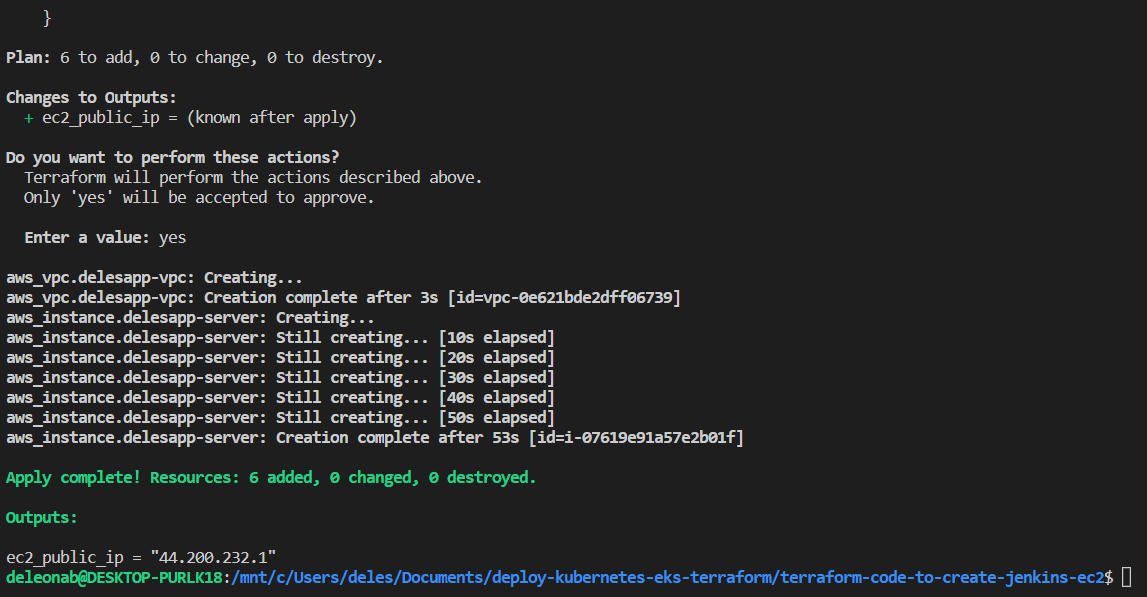
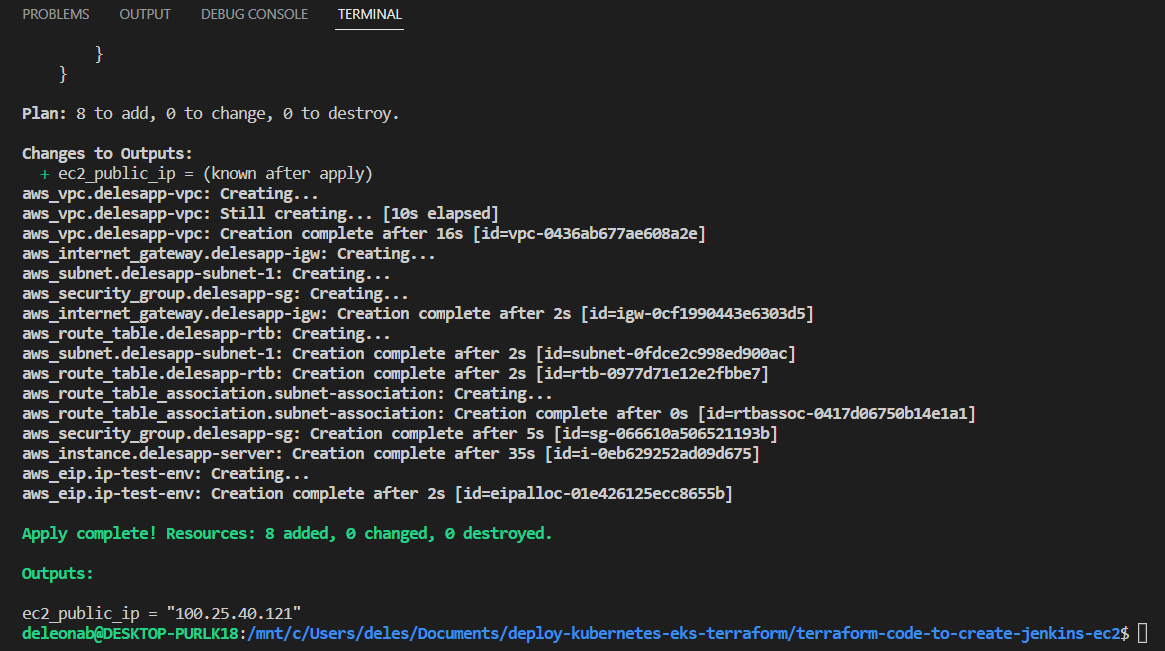
updated code to add elastic IP to instance

Changed region(s): [[0.0, 0.1508, 1.0, 0.995], [0.0, 0.0, 0.3662, 0.0603], [0.0, 0.0905, 0.3357, 0.1206]]

diff --git a/README.md b/README.md
@@ -70,85 +70,6 @@ override.tf.json
 terraform.rc
 ```
 
-## 2.  Prepare the Jenkins Server using terraform and a userdata script(EC2)
-```
-touch jenkins-server.tf
-```
-## 
-```
-
-data "aws_ami" "latest-amazon-linux-image" {
-  most_recent = true
-  owners      = ["amazon"]
-  filter {
-    name   = "name"
-    values = ["amzn2-ami-hvm-*-x86_64-gp2"]
-  }
-  filter {
-    name   = "virtualization-type"
-    values = ["hvm"]
-  }
-}
-```
-### provision ec2 with latest amzn2-ami-hvm-*-x86_64-gp2 image
-```
-resource "aws_instance" "myapp-server" {
-  ami                         = data.aws_ami.latest-amazon-linux-image.id
-  instance_type               = var.instance_type
-  key_name                    = "jenkins-server"
-  subnet_id                   = aws_subnet.myapp-subnet-1.id
-  vpc_security_group_ids      = [aws_default_security_group.default-sg.id]
-  availability_zone           = var.avail_zone
-  associate_public_ip_address = true
-  user_data                   = file("jenkins-userdata.sh")
-  tags = {
-    Name = "${var.env_prefix}-server"
-  }
-}
-
-```
-### Create userdata script for jenkins instance
-### This will install jenkins, git, java, terraform, and kubectl
-
-```
-#!/bin/bash
-
-# install jenkins 
-
-sudo yum update
-sudo wget -O /etc/yum.repos.d/jenkins.repo \
-    https://pkg.jenkins.io/redhat-stable/jenkins.repo
-sudo rpm --import https://pkg.jenkins.io/redhat-stable/jenkins.io.key
-sudo yum upgrade -y
-sudo amazon-linux-extras install java-openjdk11 -y
-sudo yum install jenkins -y
-sudo systemctl enable jenkins
-sudo systemctl start jenkins
-
-# install git
-sudo yum install git -y
-
-# install terraform
-
-sudo yum install -y yum-utils
-sudo yum-config-manager --add-repo https://rpm.releases.hashicorp.com/AmazonLinux/hashicorp.repo
-sudo yum -y install terraform
-
-# install kubectl
-
-sudo curl -LO https://storage.googleapis.com/kubernetes-release/release/v1.23.6/bin/linux/amd64/kubectl
-sudo chmod +x ./kubectl
-sudo mkdir -p $HOME/bin && sudo cp ./kubectl $HOME/bin/kubectl && export PATH=$PATH:$HOME/bin
-
-```
-
-### We will create outputs.tf to output the public ip address of our jenkins server
-
-```
-output "ec2_public_ip" {
-  value = aws_instance.myapp-server.public_ip
-}
-```
 
 ### Our providers will be in provider.tf
 ### This will be aws in this case
@@ -231,6 +152,100 @@ resource "aws_default_security_group" "default-sg" {
 }
 ```
 
+
+## 2.  Prepare the Jenkins Server using terraform and a userdata script(EC2)
+```
+touch jenkins-server.tf
+```
+## 
+```
+
+data "aws_ami" "latest-amazon-linux-image" {
+  most_recent = true
+  owners      = ["amazon"]
+  filter {
+    name   = "name"
+    values = ["amzn2-ami-hvm-*-x86_64-gp2"]
+  }
+  filter {
+    name   = "virtualization-type"
+    values = ["hvm"]
+  }
+}
+```
+### provision ec2 with latest amzn2-ami-hvm-*-x86_64-gp2 image
+```
+resource "aws_instance" "myapp-server" {
+  ami                         = data.aws_ami.latest-amazon-linux-image.id
+  instance_type               = var.instance_type
+  key_name                    = "jenkins-server"
+  subnet_id                   = aws_subnet.myapp-subnet-1.id
+  vpc_security_group_ids      = [aws_default_security_group.default-sg.id]
+  availability_zone           = var.avail_zone
+  associate_public_ip_address = true
+  user_data                   = file("jenkins-userdata.sh")
+  tags = {
+    Name = "${var.env_prefix}-server"
+  }
+}
+
+```
+### Create userdata script for jenkins instance
+### This will install jenkins, git, java, terraform, and kubectl
+
+```
+#!/bin/bash
+
+# install jenkins 
+
+sudo yum update
+sudo wget -O /etc/yum.repos.d/jenkins.repo \
+    https://pkg.jenkins.io/redhat-stable/jenkins.repo
+sudo rpm --import https://pkg.jenkins.io/redhat-stable/jenkins.io.key
+sudo yum upgrade -y
+sudo amazon-linux-extras install java-openjdk11 -y
+sudo yum install jenkins -y
+sudo systemctl enable jenkins
+sudo systemctl start jenkins
+
+# install git
+sudo yum install git -y
+
+# install terraform
+
+sudo yum install -y yum-utils
+sudo yum-config-manager --add-repo https://rpm.releases.hashicorp.com/AmazonLinux/hashicorp.repo
+sudo yum -y install terraform
+
+# install kubectl
+
+sudo curl -LO https://storage.googleapis.com/kubernetes-release/release/v1.23.6/bin/linux/amd64/kubectl
+sudo chmod +x ./kubectl
+sudo mkdir -p $HOME/bin && sudo cp ./kubectl $HOME/bin/kubectl && export PATH=$PATH:$HOME/bin
+
+```
+#### We should add an elatic IP to our instance. This would endure that the instance public IP stays the same if we stop and start the instance. The public IP of an instance changes if the instance is stopped and restarted.
+
+```
+resource "aws_eip" "ip-test-env" {
+
+  instance = "${aws_instance.delesapp-server.id}"
+
+  vpc      = true
+
+}
+
+```
+### We will create outputs.tf to output the public ip address of our jenkins server
+
+```
+output "ec2_public_ip" {
+  value = aws_instance.myapp-server.public_ip
+}
+```
+
+
+
 ### Next, we shall declare our variables in variables.tf
 
 ```
@@ -298,3 +313,9 @@ terraform appy
 
 
 cat ~/.aws/credentials
+
+###### Check userdata installation
+- SSH into instance
+```
+sudo cat /var/lib/cloud/instances/i-02b6e76afbebcaceb/user-data.txt
+```
